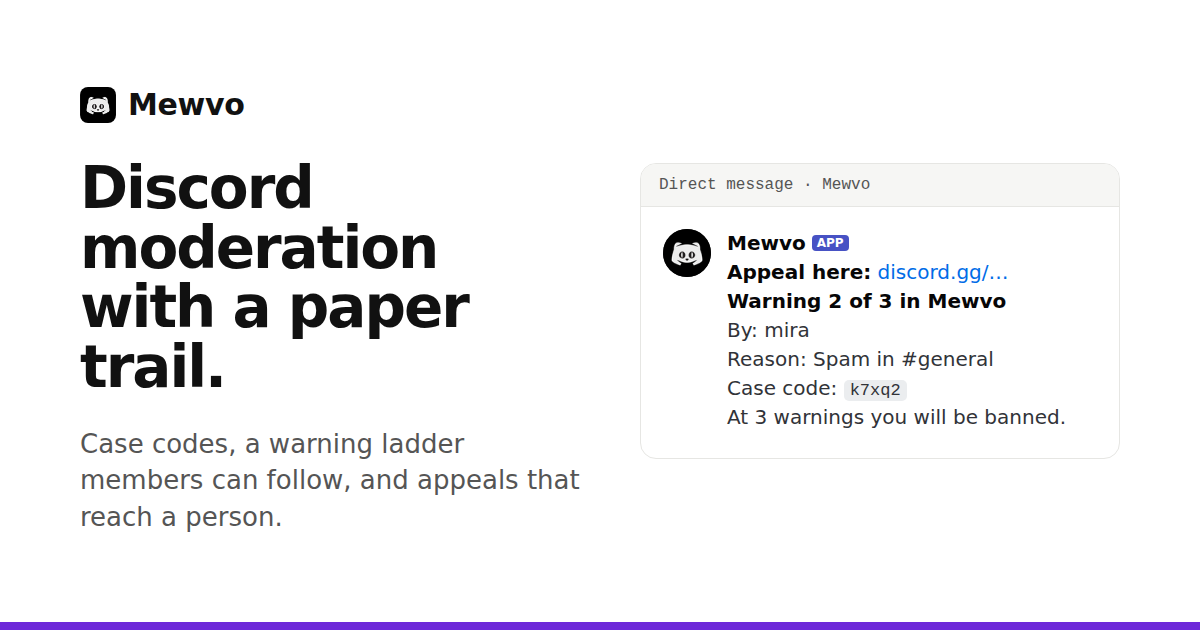
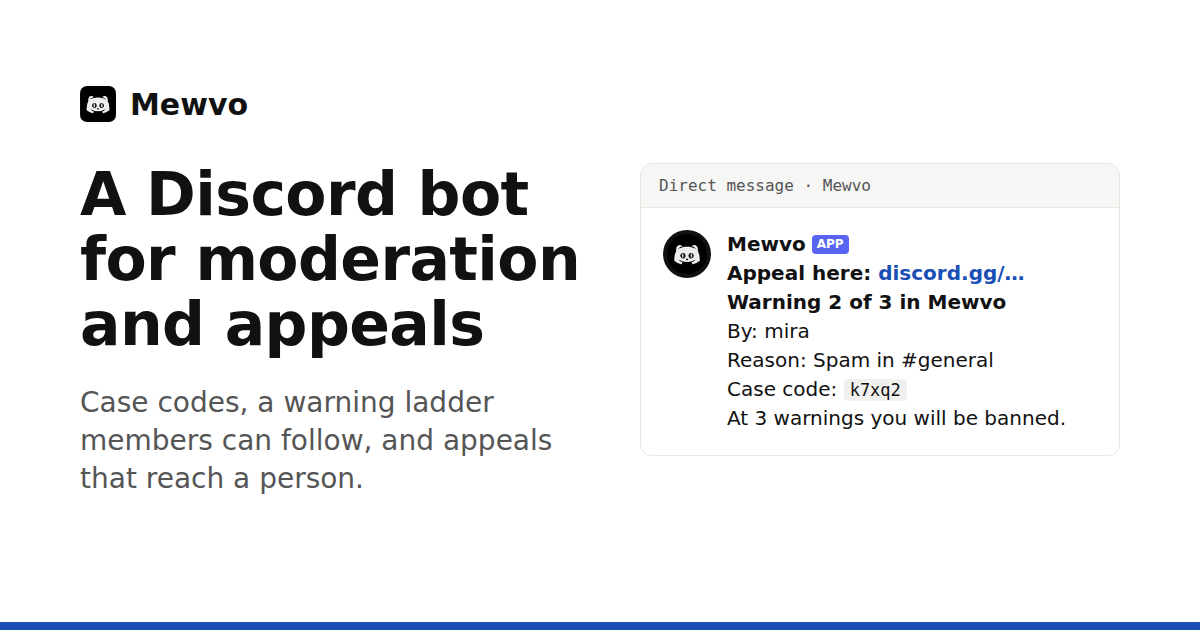
Website: plain link-blue accent instead of purple; direct headings instead of slogans
Home sections now say what each feature does (no taglines ending in a period), pricing
heading 'Plans and prices', share image redrawn with the new headline and a blue bar.

diff --git a/Mewvo/index.html b/Mewvo/index.html
@@ -6,7 +6,7 @@
 <meta property="og:description" content="Mewvo is a Discord bot for moderation with case codes and DMs, a three-step warning ladder, appeals that reach a person, automod, tickets and community tools."><meta property="og:url" content="https://mewvo.com/"><meta property="og:image" content="https://mewvo.com/img/og.png">
 <meta property="og:image:width" content="1200"><meta property="og:image:height" content="630"><meta property="og:image:alt" content="Mewvo: Discord moderation with case codes, a warning ladder and appeals.">
 <meta name="twitter:card" content="summary_large_image"><meta name="twitter:title" content="Mewvo"><meta name="twitter:description" content="Mewvo is a Discord bot for moderation with case codes and DMs, a three-step warning ladder, appeals that reach a person, automod, tickets and community tools."><meta name="twitter:image" content="https://mewvo.com/img/og.png">
-<link rel="icon" href="/favicon.png" type="image/png" sizes="64x64"><link rel="stylesheet" href="/site.css?v=a493db4532"></head>
+<link rel="icon" href="/favicon.png" type="image/png" sizes="64x64"><link rel="stylesheet" href="/site.css?v=ab67b71b71"></head>
 <body><a class="skip" href="#main">Skip to content</a>
 <header class="topbar"><div class="wrap topbar-inner"><a class="brand" href="/" aria-current="page"><img class="logo" src="/img/logo.png?v=9e5d4938f1" width="28" height="28" alt=""><span>Mewvo</span></a>
 <nav class="topnav" aria-label="Main"><ul><li><a href="/features">Features</a></li>
@@ -17,8 +17,8 @@
 </ul></nav>
 <div class="topbar-actions"><a class="button" href="https://app.mewvo.com/dashboard">Dashboard</a></div></div></header>
 <main id="main" tabindex="-1"><section class="hero"><div class="wrap hero-grid">
-<div class="hero-copy"><p class="kicker"><span class="kbd">Discord bot</span><span>Moderation, appeals and community tools</span></p>
-<h1>Discord moderation with a paper trail.</h1>
+<div class="hero-copy"><p class="kicker"><span class="kbd">Discord bot</span><span>Moderation, appeals, automod, tickets, community tools</span></p>
+<h1>A Discord bot for moderation and appeals</h1>
 <p class="lead">Mewvo warns, mutes, kicks and bans from one panel. The member gets a DM with the reason, the end time and how to appeal. Your staff get a case they can review, correct or void.</p>
 <p class="hero-actions"><a class="button" href="https://discord.gg/7Ckv9Bt577" rel="noopener">Join the support server</a><a class="button button-quiet" href="#enforcement">See how it works</a><a class="button button-quiet" href="https://app.mewvo.com/dashboard">Open the dashboard</a></p>
 <p class="note">Mewvo runs on its own server for now. It can’t be added to other servers yet.</p></div>
@@ -41,7 +41,7 @@
 </dl></div></section>
 
 <section class="block" id="enforcement" aria-labelledby="enforcement-title"><div class="wrap split">
-<div class="split-copy"><p class="section-num"><span class="section-index">01</span>Enforcement</p><h2 id="enforcement-title">One panel, with the member’s history on top.</h2><p>Run <code>/enforcements</code> on a member and Mewvo shows their account age, warnings, ladder level, active punishments and last cases before you choose what to do.</p>
+<div class="split-copy"><p class="section-num"><span class="section-index">01</span>Enforcement</p><h2 id="enforcement-title">Warn, mute, kick and ban from one panel</h2><p>Run <code>/enforcements</code> on a member and Mewvo shows their account age, warnings, ladder level, active punishments and last cases before you choose what to do.</p>
 <p class="flow" aria-label="The steps"><kbd>Action</kbd><span aria-hidden="true">→</span><kbd>Reason</kbd><span aria-hidden="true">→</span><kbd>Duration</kbd><span aria-hidden="true">→</span><kbd>Confirm</kbd></p>
 <ul class="ticks"><li>The DM goes out before a kick or ban, so it still reaches the member. If it fails, the moderator is told.</li>
 <li>Every action is a case with a short code, and staff can edit it, void it or attach evidence later.</li>
@@ -62,7 +62,7 @@
 <p class="dc-ephemeral">Only you can see this</p></div></div></div><figcaption class="mock-caption">The /enforcements panel. Only the moderator who ran it can see it.</figcaption></figure></div></div></section>
 
 <section class="block" id="ladder" aria-labelledby="ladder-title"><div class="wrap split split-flip">
-<div class="split-copy"><p class="section-num"><span class="section-index">02</span>Warning ladder</p><h2 id="ladder-title">Three warnings, then a ban. No surprises.</h2><p>The ladder counts per member and per server, and it never quietly resets. Each warning DM says which one it is. The third is an automatic 7-day ban. After that, the next warning is a 30-day ban, and the one after is permanent, still open to appeal for six months.</p>
+<div class="split-copy"><p class="section-num"><span class="section-index">02</span>Warning ladder</p><h2 id="ladder-title">The third warning is an automatic ban</h2><p>The ladder counts per member and per server, and it never quietly resets. Each warning DM says which one it is. The third is an automatic 7-day ban. After that, the next warning is a 30-day ban, and the one after is permanent, still open to appeal for six months.</p>
 <ul class="ticks"><li>Bans a moderator gives by hand don’t move the ladder.</li>
 <li>Removing a warning lowers the count again.</li>
 <li>An accepted appeal of a ladder ban steps the level down by one.</li></ul>
@@ -76,7 +76,7 @@
 </ol></figure></div></div></section>
 
 <section class="block" id="appeals" aria-labelledby="appeals-title"><div class="wrap split">
-<div class="split-copy"><p class="section-num"><span class="section-index">03</span>Appeals</p><h2 id="appeals-title">Appeals reach a person, even after a ban.</h2><p>Members press <strong>Appeal</strong> on the appeal panel and fill in three fields. Ban and kick appeals open a private channel in the support server, so the conversation works even when they can’t see your server any more. Staff see the case and the member’s history next to Accept and Deny.</p>
+<div class="split-copy"><p class="section-num"><span class="section-index">03</span>Appeals</p><h2 id="appeals-title">Members can appeal, even after a ban</h2><p>Members press <strong>Appeal</strong> on the appeal panel and fill in three fields. Ban and kick appeals open a private channel in the support server, so the conversation works even when they can’t see your server any more. Staff see the case and the member’s history next to Accept and Deny.</p>
 <ul class="ticks"><li>One pending appeal per case. After a denial, the member waits 7 days to try again.</li>
 <li>Bans and mutes can be appealed while they last; warnings and kicks within 30 days.</li>
 <li>Accepting lifts the punishment and DMs a one-time invite back to the server.</li></ul>
@@ -92,7 +92,7 @@
 <figcaption class="mock-caption">The appeal form, as Discord shows it. Case code from the member’s DM.</figcaption></figure></div></div></section>
 
 <section class="block" id="automod" aria-labelledby="automod-title"><div class="wrap split split-flip">
-<div class="split-copy"><p class="section-num"><span class="section-index">04</span>Automod</p><h2 id="automod-title">Automod that shows its work.</h2><p>Fourteen rules, from scam links and mass mentions to caps and fancy fonts. Each rule has its own punishment steps, and every automatic action is a normal case with a review card in your staff channel: keep it, undo it or change it.</p>
+<div class="split-copy"><p class="section-num"><span class="section-index">04</span>Automod</p><h2 id="automod-title">Every automod action gets a review card</h2><p>Fourteen rules, from scam links and mass mentions to caps and fancy fonts. Each rule has its own punishment steps, and every automatic action is a normal case with a review card in your staff channel: keep it, undo it or change it.</p>
 <ul class="ticks"><li>Text is folded back to plain letters first, so look-alike characters and zalgo don’t slip past.</li>
 <li>Links, attachments and fast posting are limited for new members in their first 3 days.</li>
 <li>Ten joins in a minute counts as a raid: the server locks down, invites and DMs pause, and admins are alerted.</li>
@@ -109,7 +109,7 @@
 <p class="dc-select">Change to…</p></div></div></div><figcaption class="mock-caption">A review card in the staff channel after an automatic warning.</figcaption></figure></div></div></section>
 
 <section class="block" id="tickets" aria-labelledby="tickets-title"><div class="wrap split">
-<div class="split-copy"><p class="section-num"><span class="section-index">05</span>Tickets and modmail</p><h2 id="tickets-title">Tickets and modmail in channels your staff already use.</h2><p>A ticket panel with claim, priority, saved answers and a transcript when the ticket closes. Members can also DM the bot and choose <strong>Send to staff</strong>: the conversation becomes a staff channel, and anything a moderator starts with <code>//</code> stays internal.</p>
+<div class="split-copy"><p class="section-num"><span class="section-index">05</span>Tickets and modmail</p><h2 id="tickets-title">Tickets and modmail as Discord channels</h2><p>A ticket panel with claim, priority, saved answers and a transcript when the ticket closes. Members can also DM the bot and choose <strong>Send to staff</strong>: the conversation becomes a staff channel, and anything a moderator starts with <code>//</code> stays internal.</p>
 <ul class="ticks"><li>Close, block and unblock with <code>/modmail</code>.</li>
 <li>Members can report a staff member privately; only administrators see those reports.</li></ul></div><div class="split-visual"><figure class="mock mock-modmail"><div class="mock-bar"><span class="mock-label">#modmail-nightowl</span></div>
 <div class="dc"><div class="dc-msg"><span class="dc-avatar dc-avatar-letter" aria-hidden="true">N</span><div class="dc-content">
@@ -120,22 +120,22 @@
 <p class="dc-meta"><span class="dc-name">mira</span><span class="dc-time">Today at 09:12</span></p><p>// same account as case r4mzp, checking the join date</p></div></div></div><figcaption class="mock-caption">A modmail channel. The grey line is an internal note the member never sees.</figcaption></figure></div></div></section>
 
 <section class="block block-wide" id="dashboard" aria-labelledby="dashboard-title"><div class="wrap">
-<div class="block-head"><div><p class="section-num"><span class="section-index">06</span>Dashboard</p><h2 id="dashboard-title">The whole server in a browser tab.</h2></div><div class="block-text"><p>Members, cases, appeals, the staff inbox and every module’s settings, on one page per area. Sign in with Discord. Administrator is checked again on every request, and every change is written to an audit log with the old and the new value.</p>
+<div class="block-head"><div><p class="section-num"><span class="section-index">06</span>Dashboard</p><h2 id="dashboard-title">A web dashboard for your staff</h2></div><div class="block-text"><p>Members, cases, appeals, the staff inbox and every module’s settings, on one page per area. Sign in with Discord. Administrator is checked again on every request, and every change is written to an audit log with the old and the new value.</p>
 <p><a class="more" href="/docs/using-the-dashboard">A tour of the dashboard</a></p></div></div><figure class="shot"><picture><source srcset="/img/screen-overview-dark.webp" media="(prefers-color-scheme: dark)" type="image/webp">
 <img src="/img/screen-overview-light.webp" width="1280" height="800" alt="The Mewvo dashboard Overview page: a “Needs you” list with two appeals waiting, open tickets and a setup step, a bar chart of moderation actions over the last seven days, member and sanction counts, and the bot’s health." decoding="async"></picture><figcaption class="mock-caption">The Overview page of the dashboard, with made-up members and cases.</figcaption></figure></div></section>
 
 <section class="block" id="community" aria-labelledby="community-title"><div class="wrap split split-narrow">
-<div class="split-copy"><p class="section-num"><span class="section-index">07</span>Community tools</p><h2 id="community-title">The everyday parts, too.</h2>
+<div class="split-copy"><p class="section-num"><span class="section-index">07</span>Community tools</p><h2 id="community-title">Leveling, tags, giveaways and more</h2>
 <p>The same bot runs the friendly side of the server, set up from the same dashboard.</p><p><a class="more" href="/features">Every feature</a></p></div>
 <dl class="spec-list"><div><dt>Leveling</dt><dd>XP for chatting, level-up messages, role rewards and a public leaderboard.</dd></div><div><dt>Tags</dt><dd>Saved answers anyone can call up by name. Up to 100 per server.</dd></div><div><dt>Suggestions</dt><dd>A suggestions channel with votes and staff decisions.</dd></div><div><dt>Starboard</dt><dd>Messages that get enough stars are copied to a highlights channel.</dd></div><div><dt>Sticky messages</dt><dd>A message that stays at the bottom of a busy channel. Up to 10.</dd></div><div><dt>YouTube feeds</dt><dd>New uploads from a channel posted for you. Up to 20 feeds.</dd></div><div><dt>Reaction roles</dt><dd>Role menus with buttons or a select menu.</dd></div><div><dt>Giveaways</dt><dd>Start, end and reroll, with winners picked at random.</dd></div><div><dt>Birthdays</dt><dd>Birthday announcements and a birthday role for the day.</dd></div><div><dt>Applications</dt><dd>Role applications with your own questions, reviewed by staff.</dd></div><div><dt>Join to create</dt><dd>Temporary voice channels that clean up after themselves.</dd></div><div><dt>Welcome and goodbye</dt><dd>Join and leave messages, and roles given on join.</dd></div></dl></div></section>
 
 <section class="block block-pricing" aria-labelledby="pricing-title"><div class="wrap split split-narrow">
-<div class="split-copy"><p class="section-num"><span class="section-index">€</span>Pricing</p><h2 id="pricing-title">Free while it runs on one server.</h2>
+<div class="split-copy"><p class="section-num"><span class="section-index">€</span>Pricing</p><h2 id="pricing-title">Free plan and paid plans</h2>
 <p>Everything above is free. Paid plans with higher limits come when Mewvo opens to other servers.</p><p><a class="more" href="/pricing">Compare plans</a></p></div>
 <ul class="price-rows"><li><span class="price-name">Free</span><span class="price-desc">Everything on this page</span><span class="price-amount">€0</span></li>
 <li><span class="price-name">Normal</span><span class="price-desc">More room for busy community servers.</span><span class="price-amount">€1.99<span class="per">/month</span></span></li><li><span class="price-name">Pro</span><span class="price-desc">For servers with a real staff team.</span><span class="price-amount">€4.99<span class="per">/month</span></span></li><li><span class="price-name">Max</span><span class="price-desc">For people who run several servers.</span><span class="price-amount">€9.99<span class="per">/month</span></span></li></ul></div></section>
 
-<section class="cta" aria-labelledby="cta-title"><div class="wrap cta-inner"><div><h2 id="cta-title">See it on a real server.</h2>
+<section class="cta" aria-labelledby="cta-title"><div class="wrap cta-inner"><div><h2 id="cta-title">Try Mewvo</h2>
 <p>Mewvo runs the Mewvo Discord server. Join it to see the appeal panel, the leaderboard and the bot at work.</p></div>
 <p class="hero-actions"><a class="button" href="https://discord.gg/7Ckv9Bt577" rel="noopener">Join the support server</a><a class="button button-quiet" href="/docs">Read the docs</a></p></div></section></main>
 <footer class="footer"><div class="wrap"><div class="footer-grid"><div class="footer-about"><p class="footer-brand"><img class="logo" src="/img/logo.png?v=9e5d4938f1" width="28" height="28" alt=""><span>Mewvo</span></p>

diff --git a/src/services/site/pages/home.js b/src/services/site/pages/home.js
@@ -47,8 +47,8 @@ const COMMUNITY = [
 export function homePage(ctx) {
     const paid = PLANS.filter((p) => p.monthlyCents > 0);
     const body = html`<section class="hero"><div class="wrap hero-grid">
-<div class="hero-copy"><p class="kicker"><span class="kbd">Discord bot</span><span>Moderation, appeals and community tools</span></p>
-<h1>Discord moderation with a paper trail.</h1>
+<div class="hero-copy"><p class="kicker"><span class="kbd">Discord bot</span><span>Moderation, appeals, automod, tickets, community tools</span></p>
+<h1>A Discord bot for moderation and appeals</h1>
 <p class="lead">Mewvo warns, mutes, kicks and bans from one panel. The member gets a DM with the reason, the end time and how to appeal. Your staff get a case they can review, correct or void.</p>
 ${heroActions(ctx)}
 ${ctx.publicSite ? '' : html`<p class="note">Mewvo runs on its own server for now. It can’t be added to other servers yet.</p>`}</div>
@@ -63,7 +63,7 @@ ${ctx.publicSite ? '' : html`<p class="note">Mewvo runs on its own server for no
 
 ${section({
         id: 'enforcement', number: '01', label: 'Enforcement',
-        title: 'One panel, with the member’s history on top.',
+        title: 'Warn, mute, kick and ban from one panel',
         body: html`<p>Run <code>/enforcements</code> on a member and Mewvo shows their account age, warnings, ladder level, active punishments and last cases before you choose what to do.</p>
 <p class="flow" aria-label="The steps"><kbd>Action</kbd><span aria-hidden="true">→</span><kbd>Reason</kbd><span aria-hidden="true">→</span><kbd>Duration</kbd><span aria-hidden="true">→</span><kbd>Confirm</kbd></p>
 <ul class="ticks"><li>The DM goes out before a kick or ban, so it still reaches the member. If it fails, the moderator is told.</li>
@@ -75,7 +75,7 @@ ${section({
 
 ${section({
         id: 'ladder', number: '02', label: 'Warning ladder', flip: true,
-        title: 'Three warnings, then a ban. No surprises.',
+        title: 'The third warning is an automatic ban',
         body: html`<p>The ladder counts per member and per server, and it never quietly resets. Each warning DM says which one it is. The third is an automatic 7-day ban. After that, the next warning is a 30-day ban, and the one after is permanent, still open to appeal for six months.</p>
 <ul class="ticks"><li>Bans a moderator gives by hand don’t move the ladder.</li>
 <li>Removing a warning lowers the count again.</li>
@@ -86,7 +86,7 @@ ${section({
 
 ${section({
         id: 'appeals', number: '03', label: 'Appeals',
-        title: 'Appeals reach a person, even after a ban.',
+        title: 'Members can appeal, even after a ban',
         body: html`<p>Members press <strong>Appeal</strong> on the appeal panel and fill in three fields. Ban and kick appeals open a private channel in the support server, so the conversation works even when they can’t see your server any more. Staff see the case and the member’s history next to Accept and Deny.</p>
 <ul class="ticks"><li>One pending appeal per case. After a denial, the member waits 7 days to try again.</li>
 <li>Bans and mutes can be appealed while they last; warnings and kicks within 30 days.</li>
@@ -97,7 +97,7 @@ ${section({
 
 ${section({
         id: 'automod', number: '04', label: 'Automod', flip: true,
-        title: 'Automod that shows its work.',
+        title: 'Every automod action gets a review card',
         body: html`<p>Fourteen rules, from scam links and mass mentions to caps and fancy fonts. Each rule has its own punishment steps, and every automatic action is a normal case with a review card in your staff channel: keep it, undo it or change it.</p>
 <ul class="ticks"><li>Text is folded back to plain letters first, so look-alike characters and zalgo don’t slip past.</li>
 <li>Links, attachments and fast posting are limited for new members in their first 3 days.</li>
@@ -108,7 +108,7 @@ ${section({
 
 ${section({
         id: 'tickets', number: '05', label: 'Tickets and modmail',
-        title: 'Tickets and modmail in channels your staff already use.',
+        title: 'Tickets and modmail as Discord channels',
         body: html`<p>A ticket panel with claim, priority, saved answers and a transcript when the ticket closes. Members can also DM the bot and choose <strong>Send to staff</strong>: the conversation becomes a staff channel, and anything a moderator starts with <code>//</code> stays internal.</p>
 <ul class="ticks"><li>Close, block and unblock with <code>/modmail</code>.</li>
 <li>Members can report a staff member privately; only administrators see those reports.</li></ul>`,
@@ -117,24 +117,24 @@ ${section({
 
 ${section({
         id: 'dashboard', number: '06', label: 'Dashboard', wide: true,
-        title: 'The whole server in a browser tab.',
+        title: 'A web dashboard for your staff',
         body: html`<p>Members, cases, appeals, the staff inbox and every module’s settings, on one page per area. Sign in with Discord. Administrator is checked again on every request, and every change is written to an audit log with the old and the new value.</p>
 <p><a class="more" href="/docs/using-the-dashboard">A tour of the dashboard</a></p>`,
         visual: dashboardShot({ name: 'overview', alt: 'The Mewvo dashboard Overview page: a “Needs you” list with two appeals waiting, open tickets and a setup step, a bar chart of moderation actions over the last seven days, member and sanction counts, and the bot’s health.', caption: 'The Overview page of the dashboard, with made-up members and cases.', eager: true }),
     })}
 
 <section class="block" id="community" aria-labelledby="community-title"><div class="wrap split split-narrow">
-<div class="split-copy"><p class="section-num"><span class="section-index">07</span>Community tools</p><h2 id="community-title">The everyday parts, too.</h2>
+<div class="split-copy"><p class="section-num"><span class="section-index">07</span>Community tools</p><h2 id="community-title">Leveling, tags, giveaways and more</h2>
 <p>The same bot runs the friendly side of the server, set up from the same dashboard.</p><p><a class="more" href="/features">Every feature</a></p></div>
 <dl class="spec-list">${COMMUNITY.map(([name, text]) => html`<div><dt>${name}</dt><dd>${text}</dd></div>`)}</dl></div></section>
 
 <section class="block block-pricing" aria-labelledby="pricing-title"><div class="wrap split split-narrow">
-<div class="split-copy"><p class="section-num"><span class="section-index">€</span>Pricing</p><h2 id="pricing-title">Free while it runs on one server.</h2>
+<div class="split-copy"><p class="section-num"><span class="section-index">€</span>Pricing</p><h2 id="pricing-title">Free plan and paid plans</h2>
 <p>Everything above is free. Paid plans with higher limits come when Mewvo opens to other servers.</p><p><a class="more" href="/pricing">Compare plans</a></p></div>
 <ul class="price-rows"><li><span class="price-name">Free</span><span class="price-desc">Everything on this page</span><span class="price-amount">€0</span></li>
 ${paid.map((p) => html`<li><span class="price-name">${p.name}</span><span class="price-desc">${p.summary}</span><span class="price-amount">${euros(p.monthlyCents)}<span class="per">/month</span></span></li>`)}</ul></div></section>
 
-<section class="cta" aria-labelledby="cta-title"><div class="wrap cta-inner"><div><h2 id="cta-title">See it on a real server.</h2>
+<section class="cta" aria-labelledby="cta-title"><div class="wrap cta-inner"><div><h2 id="cta-title">Try Mewvo</h2>
 <p>${ctx.publicSite ? 'Add Mewvo to your server, or look around ours first.' : 'Mewvo runs the Mewvo Discord server. Join it to see the appeal panel, the leaderboard and the bot at work.'}</p></div>
 ${heroActions(ctx, { how: '/docs', howLabel: 'Read the docs', dashboard: false })}</div></section>`;
     return layout(ctx, {

diff --git a/Mewvo/pricing/index.html b/Mewvo/pricing/index.html
@@ -6,7 +6,7 @@
 <meta property="og:description" content="Mewvo is free today. Planned paid plans: Normal €1.99, Pro €4.99 and Max €9.99 a month, or two months free with yearly billing."><meta property="og:url" content="https://mewvo.com/pricing"><meta property="og:image" content="https://mewvo.com/img/og.png">
 <meta property="og:image:width" content="1200"><meta property="og:image:height" content="630"><meta property="og:image:alt" content="Mewvo: Discord moderation with case codes, a warning ladder and appeals.">
 <meta name="twitter:card" content="summary_large_image"><meta name="twitter:title" content="Pricing · Mewvo"><meta name="twitter:description" content="Mewvo is free today. Planned paid plans: Normal €1.99, Pro €4.99 and Max €9.99 a month, or two months free with yearly billing."><meta name="twitter:image" content="https://mewvo.com/img/og.png">
-<link rel="icon" href="/favicon.png" type="image/png" sizes="64x64"><link rel="stylesheet" href="/site.css?v=a493db4532"></head>
+<link rel="icon" href="/favicon.png" type="image/png" sizes="64x64"><link rel="stylesheet" href="/site.css?v=ab67b71b71"></head>
 <body><a class="skip" href="#main">Skip to content</a>
 <header class="topbar"><div class="wrap topbar-inner"><a class="brand" href="/"><img class="logo" src="/img/logo.png?v=9e5d4938f1" width="28" height="28" alt=""><span>Mewvo</span></a>
 <nav class="topnav" aria-label="Main"><ul><li><a href="/features">Features</a></li>
@@ -17,7 +17,7 @@
 </ul></nav>
 <div class="topbar-actions"><a class="button" href="https://app.mewvo.com/dashboard">Dashboard</a></div></div></header>
 <main id="main" tabindex="-1"><div class="wrap page">
-<header class="page-head page-head-split"><div><p class="section-num">Pricing</p><h1>Free today. Paid plans later.</h1></div>
+<header class="page-head page-head-split"><div><p class="section-num">Pricing</p><h1>Plans and prices</h1></div>
 <p class="lead">Everything Mewvo does now is free. Paid plans start when Mewvo opens to other servers; until then nothing can be bought. <a href="https://discord.gg/7Ckv9Bt577" rel="noopener">Join the support server</a> to hear first.</p></header>
 <div class="billing">
 <input class="billing-input" type="radio" name="billing" id="billing-monthly" value="monthly" checked>

diff --git a/src/services/site/pages/pricing.js b/src/services/site/pages/pricing.js
@@ -56,10 +56,10 @@ export function pricingPage(ctx) {
         title: 'Pricing', active: 'pricing', path: '/pricing',
         description: 'Mewvo is free today. Planned paid plans: Normal €1.99, Pro €4.99 and Max €9.99 a month, or two months free with yearly billing.',
         body: html`<div class="wrap page">
-${ctx.billing ? html`<header class="page-head page-head-split"><div><p class="section-num">Pricing</p><h1>Pick a plan.</h1></div>
+${ctx.billing ? html`<header class="page-head page-head-split"><div><p class="section-num">Pricing</p><h1>Plans and prices</h1></div>
 <p class="lead">Free covers everything Mewvo does today. Paid plans add room and tools; buy one for your account or as a gift key for someone else. <a href="/me/redeem">Have a key?</a></p></header>
 <p class="test-banner" role="note"><span class="planned">Test mode</span> ${TEST_NOTICE}</p>`
-        : html`<header class="page-head page-head-split"><div><p class="section-num">Pricing</p><h1>Free today. Paid plans later.</h1></div>
+        : html`<header class="page-head page-head-split"><div><p class="section-num">Pricing</p><h1>Plans and prices</h1></div>
 <p class="lead">Everything Mewvo does now is free. Paid plans start when Mewvo opens to other servers; until then nothing can be bought.${ctx.supportInvite ? html` <a href="${ctx.supportInvite}" rel="noopener">Join the support server</a> to hear first.` : ''}</p></header>`}
 <div class="billing">
 <input class="billing-input" type="radio" name="billing" id="billing-monthly" value="monthly" checked>

diff --git a/Mewvo/features/index.html b/Mewvo/features/index.html
@@ -6,7 +6,7 @@
 <meta property="og:description" content="Everything Mewvo does: enforcement, the warning ladder, appeals, automod, tickets and modmail, the web dashboard and community tools."><meta property="og:url" content="https://mewvo.com/features"><meta property="og:image" content="https://mewvo.com/img/og.png">
 <meta property="og:image:width" content="1200"><meta property="og:image:height" content="630"><meta property="og:image:alt" content="Mewvo: Discord moderation with case codes, a warning ladder and appeals.">
 <meta name="twitter:card" content="summary_large_image"><meta name="twitter:title" content="Features · Mewvo"><meta name="twitter:description" content="Everything Mewvo does: enforcement, the warning ladder, appeals, automod, tickets and modmail, the web dashboard and community tools."><meta name="twitter:image" content="https://mewvo.com/img/og.png">
-<link rel="icon" href="/favicon.png" type="image/png" sizes="64x64"><link rel="stylesheet" href="/site.css?v=a493db4532"></head>
+<link rel="icon" href="/favicon.png" type="image/png" sizes="64x64"><link rel="stylesheet" href="/site.css?v=ab67b71b71"></head>
 <body><a class="skip" href="#main">Skip to content</a>
 <header class="topbar"><div class="wrap topbar-inner"><a class="brand" href="/"><img class="logo" src="/img/logo.png?v=9e5d4938f1" width="28" height="28" alt=""><span>Mewvo</span></a>
 <nav class="topnav" aria-label="Main"><ul><li><a href="/features" aria-current="page">Features</a></li>

diff --git a/Mewvo/site.css b/Mewvo/site.css
@@ -1,6 +1,6 @@
 /* ── Mewvo front site ─────────────────────────────────────────────────────
    Served at /site.css (hashed). No inline styles anywhere (CSP style-src 'self'), no web
-   fonts, no gradients, glows or blur. Near-white / near-black, one accent (purple) used for
+   fonts, no gradients, glows or blur. Near-white / near-black, one accent (link blue) used for
    links, section numbers, ticks and focus; buttons are ink. Light and dark by device.
    Colour pairs are checked by tests/siteContrast.test.js (AA: 4.5:1 text, 3:1 UI marks):
    change a token here, run that test. The Discord mock-ups use the --dc-* tokens.
@@ -16,9 +16,9 @@
     --border: #e6e6e3;
     --border-control: #cfcfca;
     --border-strong: #8a8a86;
-    --accent: #6d28d9;
-    --accent-hover: #5b21b6;
-    --accent-soft: #f3effe;
+    --accent: #1a4fb5;
+    --accent-hover: #123a86;
+    --accent-soft: #eef3fc;
     --ink: #111111;
     --ink-hover: #333333;
     --on-ink: #ffffff;
@@ -59,9 +59,9 @@
         --border: #26262a;
         --border-control: #3f3f46;
         --border-strong: #71717a;
-        --accent: #a78bfa;
-        --accent-hover: #c4b5fd;
-        --accent-soft: #1e1533;
+        --accent: #7aa7f5;
+        --accent-hover: #a9c5fa;
+        --accent-soft: #142036;
         --ink: #ededed;
         --ink-hover: #ffffff;
         --on-ink: #0a0a0b;

diff --git a/src/services/site/static/site.css b/src/services/site/static/site.css
@@ -1,6 +1,6 @@
 /* ── Mewvo front site ─────────────────────────────────────────────────────
    Served at /site.css (hashed). No inline styles anywhere (CSP style-src 'self'), no web
-   fonts, no gradients, glows or blur. Near-white / near-black, one accent (purple) used for
+   fonts, no gradients, glows or blur. Near-white / near-black, one accent (link blue) used for
    links, section numbers, ticks and focus; buttons are ink. Light and dark by device.
    Colour pairs are checked by tests/siteContrast.test.js (AA: 4.5:1 text, 3:1 UI marks):
    change a token here, run that test. The Discord mock-ups use the --dc-* tokens.
@@ -16,9 +16,9 @@
     --border: #e6e6e3;
     --border-control: #cfcfca;
     --border-strong: #8a8a86;
-    --accent: #6d28d9;
-    --accent-hover: #5b21b6;
-    --accent-soft: #f3effe;
+    --accent: #1a4fb5;
+    --accent-hover: #123a86;
+    --accent-soft: #eef3fc;
     --ink: #111111;
     --ink-hover: #333333;
     --on-ink: #ffffff;
@@ -59,9 +59,9 @@
         --border: #26262a;
         --border-control: #3f3f46;
         --border-strong: #71717a;
-        --accent: #a78bfa;
-        --accent-hover: #c4b5fd;
-        --accent-soft: #1e1533;
+        --accent: #7aa7f5;
+        --accent-hover: #a9c5fa;
+        --accent-soft: #142036;
         --ink: #ededed;
         --ink-hover: #ffffff;
         --on-ink: #0a0a0b;

diff --git a/Mewvo/docs/index.html b/Mewvo/docs/index.html
@@ -6,7 +6,7 @@
 <meta property="og:description" content="Short guides to Mewvo: getting started for staff, how warnings escalate, how appeals work and using the dashboard."><meta property="og:url" content="https://mewvo.com/docs"><meta property="og:image" content="https://mewvo.com/img/og.png">
 <meta property="og:image:width" content="1200"><meta property="og:image:height" content="630"><meta property="og:image:alt" content="Mewvo: Discord moderation with case codes, a warning ladder and appeals.">
 <meta name="twitter:card" content="summary_large_image"><meta name="twitter:title" content="Docs · Mewvo"><meta name="twitter:description" content="Short guides to Mewvo: getting started for staff, how warnings escalate, how appeals work and using the dashboard."><meta name="twitter:image" content="https://mewvo.com/img/og.png">
-<link rel="icon" href="/favicon.png" type="image/png" sizes="64x64"><link rel="stylesheet" href="/site.css?v=a493db4532"></head>
+<link rel="icon" href="/favicon.png" type="image/png" sizes="64x64"><link rel="stylesheet" href="/site.css?v=ab67b71b71"></head>
 <body><a class="skip" href="#main">Skip to content</a>
 <header class="topbar"><div class="wrap topbar-inner"><a class="brand" href="/"><img class="logo" src="/img/logo.png?v=9e5d4938f1" width="28" height="28" alt=""><span>Mewvo</span></a>
 <nav class="topnav" aria-label="Main"><ul><li><a href="/features">Features</a></li>

diff --git a/Mewvo/docs/getting-started/index.html b/Mewvo/docs/getting-started/index.html
@@ -6,7 +6,7 @@
 <meta property="og:description" content="Who can use what, your first enforcement action, and the commands you’ll use every week."><meta property="og:url" content="https://mewvo.com/docs/getting-started"><meta property="og:image" content="https://mewvo.com/img/og.png">
 <meta property="og:image:width" content="1200"><meta property="og:image:height" content="630"><meta property="og:image:alt" content="Mewvo: Discord moderation with case codes, a warning ladder and appeals.">
 <meta name="twitter:card" content="summary_large_image"><meta name="twitter:title" content="Getting started for staff · Mewvo"><meta name="twitter:description" content="Who can use what, your first enforcement action, and the commands you’ll use every week."><meta name="twitter:image" content="https://mewvo.com/img/og.png">
-<link rel="icon" href="/favicon.png" type="image/png" sizes="64x64"><link rel="stylesheet" href="/site.css?v=a493db4532"></head>
+<link rel="icon" href="/favicon.png" type="image/png" sizes="64x64"><link rel="stylesheet" href="/site.css?v=ab67b71b71"></head>
 <body><a class="skip" href="#main">Skip to content</a>
 <header class="topbar"><div class="wrap topbar-inner"><a class="brand" href="/"><img class="logo" src="/img/logo.png?v=9e5d4938f1" width="28" height="28" alt=""><span>Mewvo</span></a>
 <nav class="topnav" aria-label="Main"><ul><li><a href="/features">Features</a></li>

diff --git a/Mewvo/faq/index.html b/Mewvo/faq/index.html
@@ -6,7 +6,7 @@
 <meta property="og:description" content="Answers about Mewvo: what it does, the warning ladder, appeals, stored data and how to reach staff."><meta property="og:url" content="https://mewvo.com/faq"><meta property="og:image" content="https://mewvo.com/img/og.png">
 <meta property="og:image:width" content="1200"><meta property="og:image:height" content="630"><meta property="og:image:alt" content="Mewvo: Discord moderation with case codes, a warning ladder and appeals.">
 <meta name="twitter:card" content="summary_large_image"><meta name="twitter:title" content="FAQ · Mewvo"><meta name="twitter:description" content="Answers about Mewvo: what it does, the warning ladder, appeals, stored data and how to reach staff."><meta name="twitter:image" content="https://mewvo.com/img/og.png">
-<link rel="icon" href="/favicon.png" type="image/png" sizes="64x64"><link rel="stylesheet" href="/site.css?v=a493db4532"></head>
+<link rel="icon" href="/favicon.png" type="image/png" sizes="64x64"><link rel="stylesheet" href="/site.css?v=ab67b71b71"></head>
 <body><a class="skip" href="#main">Skip to content</a>
 <header class="topbar"><div class="wrap topbar-inner"><a class="brand" href="/"><img class="logo" src="/img/logo.png?v=9e5d4938f1" width="28" height="28" alt=""><span>Mewvo</span></a>
 <nav class="topnav" aria-label="Main"><ul><li><a href="/features">Features</a></li>

diff --git a/Mewvo/docs/appeals/index.html b/Mewvo/docs/appeals/index.html
@@ -6,7 +6,7 @@
 <meta property="og:description" content="Where to appeal, what the form asks, who decides and how long it takes to try again."><meta property="og:url" content="https://mewvo.com/docs/appeals"><meta property="og:image" content="https://mewvo.com/img/og.png">
 <meta property="og:image:width" content="1200"><meta property="og:image:height" content="630"><meta property="og:image:alt" content="Mewvo: Discord moderation with case codes, a warning ladder and appeals.">
 <meta name="twitter:card" content="summary_large_image"><meta name="twitter:title" content="Appeals: how they work · Mewvo"><meta name="twitter:description" content="Where to appeal, what the form asks, who decides and how long it takes to try again."><meta name="twitter:image" content="https://mewvo.com/img/og.png">
-<link rel="icon" href="/favicon.png" type="image/png" sizes="64x64"><link rel="stylesheet" href="/site.css?v=a493db4532"></head>
+<link rel="icon" href="/favicon.png" type="image/png" sizes="64x64"><link rel="stylesheet" href="/site.css?v=ab67b71b71"></head>
 <body><a class="skip" href="#main">Skip to content</a>
 <header class="topbar"><div class="wrap topbar-inner"><a class="brand" href="/"><img class="logo" src="/img/logo.png?v=9e5d4938f1" width="28" height="28" alt=""><span>Mewvo</span></a>
 <nav class="topnav" aria-label="Main"><ul><li><a href="/features">Features</a></li>

diff --git a/Mewvo/docs/warnings/index.html b/Mewvo/docs/warnings/index.html
@@ -6,7 +6,7 @@
 <meta property="og:description" content="The warning ladder: three warnings, then 7 days, 30 days and a permanent ban."><meta property="og:url" content="https://mewvo.com/docs/warnings"><meta property="og:image" content="https://mewvo.com/img/og.png">
 <meta property="og:image:width" content="1200"><meta property="og:image:height" content="630"><meta property="og:image:alt" content="Mewvo: Discord moderation with case codes, a warning ladder and appeals.">
 <meta name="twitter:card" content="summary_large_image"><meta name="twitter:title" content="How warnings and bans escalate · Mewvo"><meta name="twitter:description" content="The warning ladder: three warnings, then 7 days, 30 days and a permanent ban."><meta name="twitter:image" content="https://mewvo.com/img/og.png">
-<link rel="icon" href="/favicon.png" type="image/png" sizes="64x64"><link rel="stylesheet" href="/site.css?v=a493db4532"></head>
+<link rel="icon" href="/favicon.png" type="image/png" sizes="64x64"><link rel="stylesheet" href="/site.css?v=ab67b71b71"></head>
 <body><a class="skip" href="#main">Skip to content</a>
 <header class="topbar"><div class="wrap topbar-inner"><a class="brand" href="/"><img class="logo" src="/img/logo.png?v=9e5d4938f1" width="28" height="28" alt=""><span>Mewvo</span></a>
 <nav class="topnav" aria-label="Main"><ul><li><a href="/features">Features</a></li>
